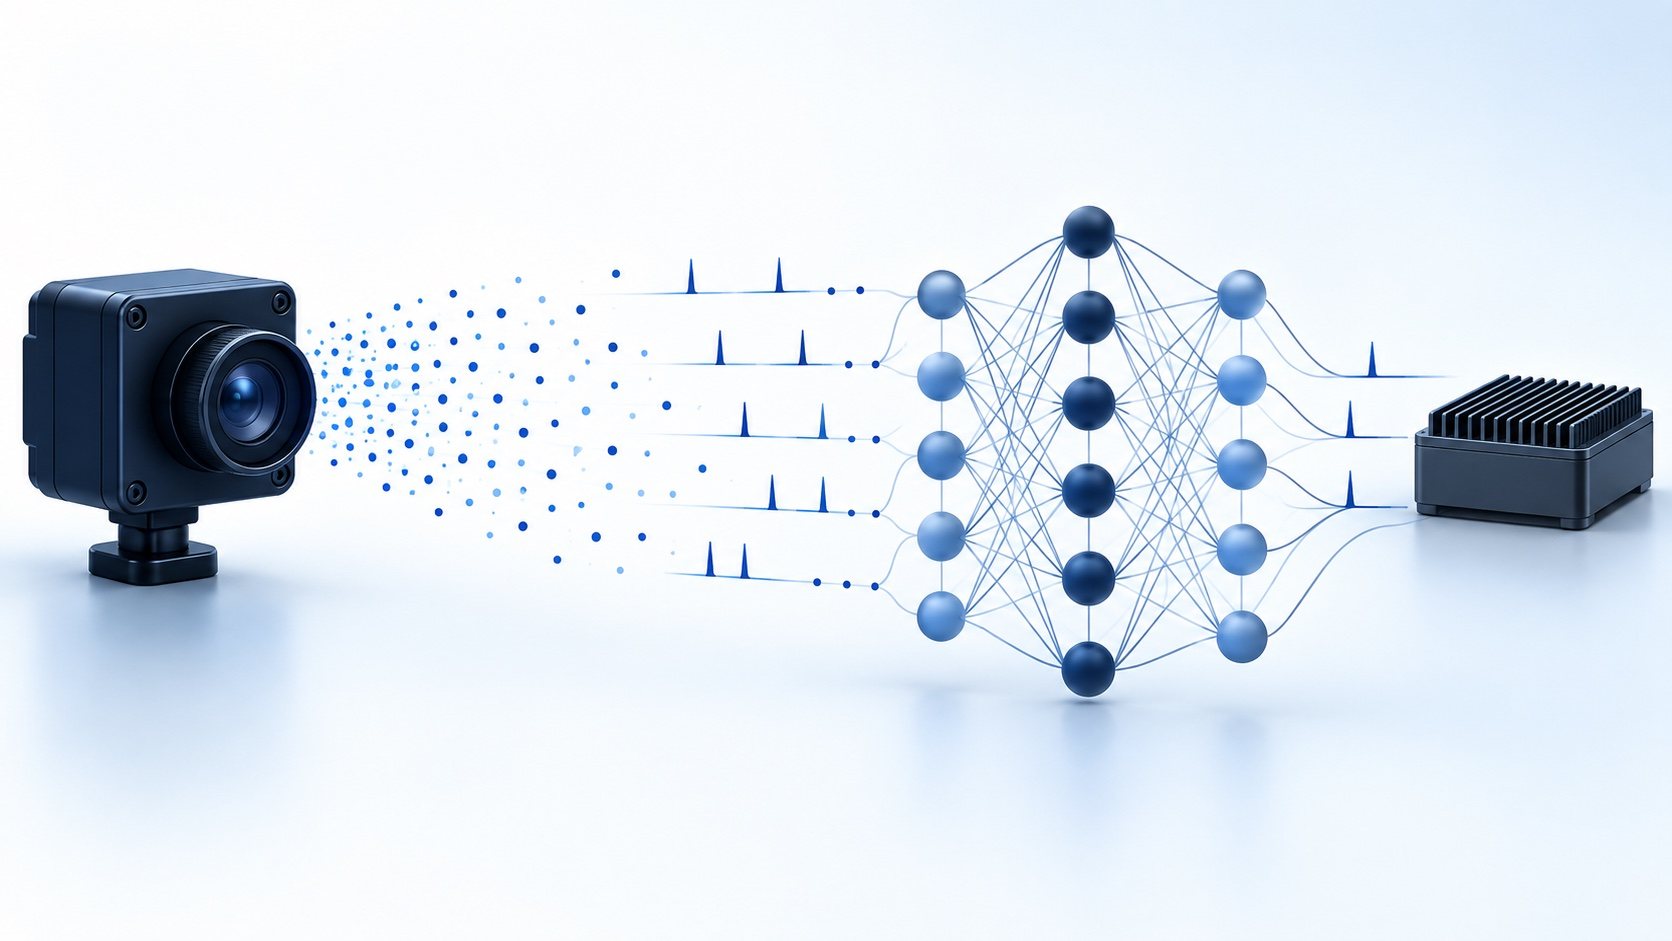
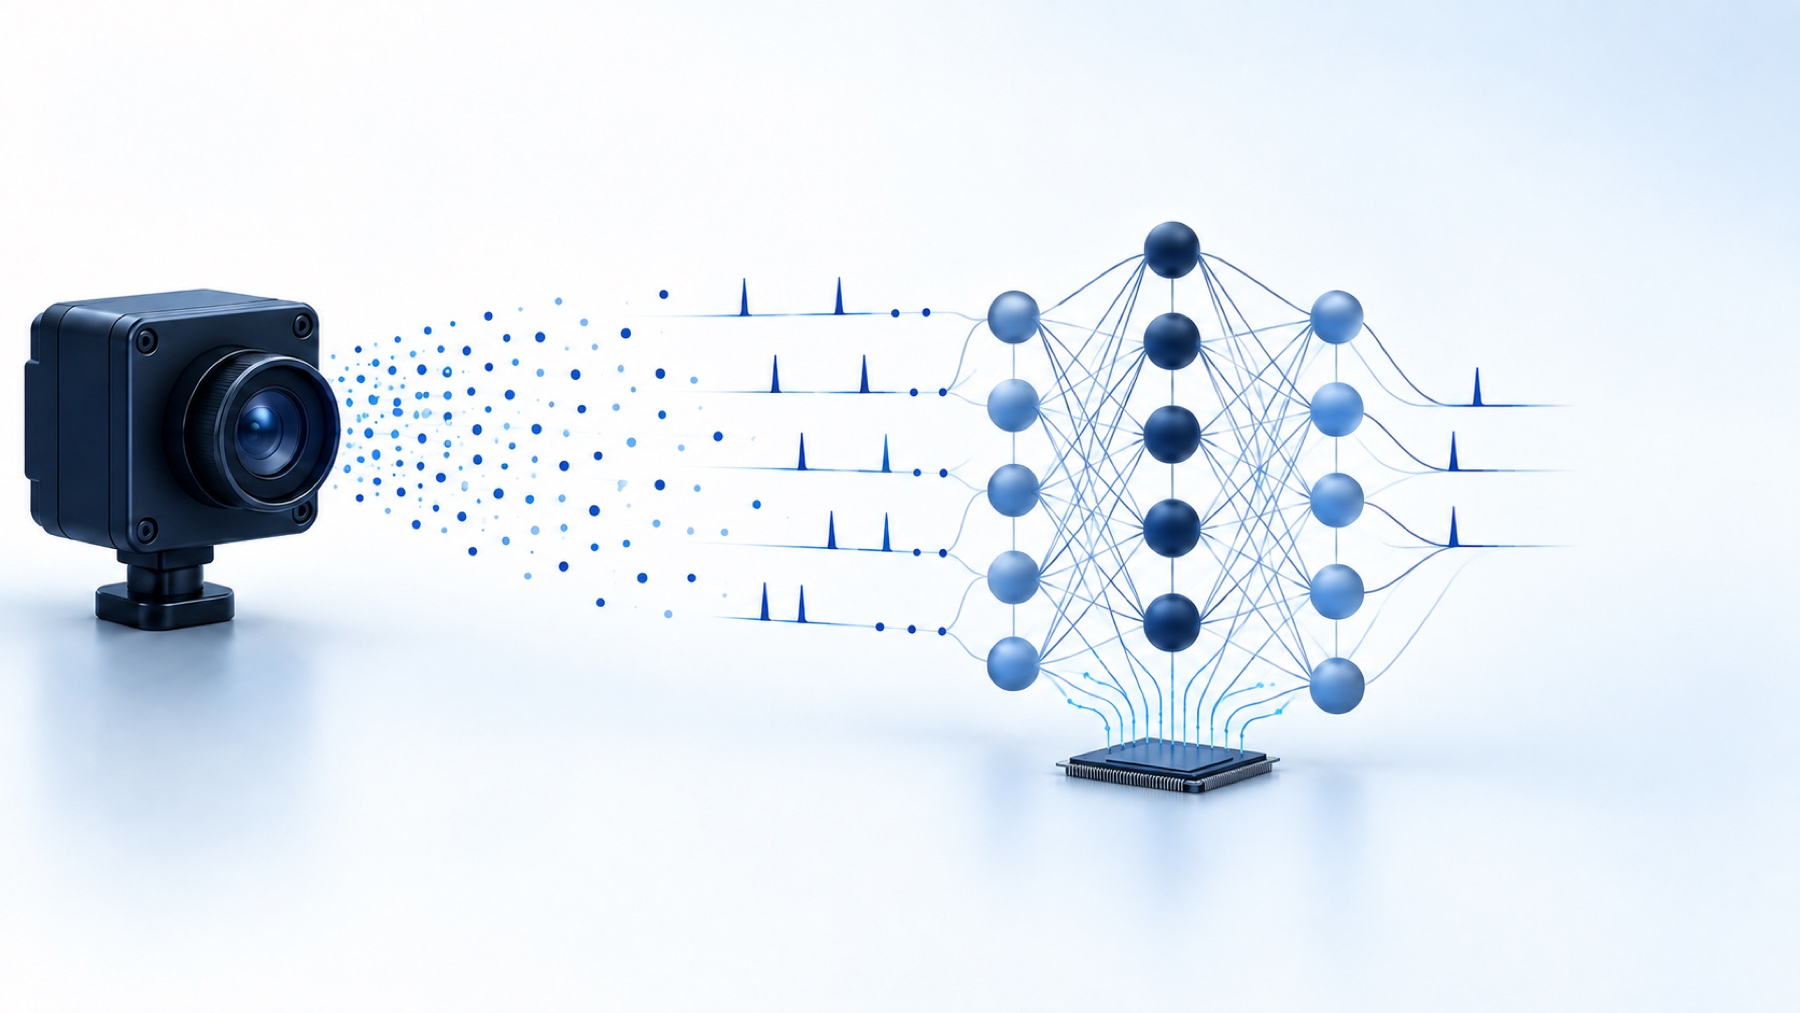
Add new photos and refine neuromorphic illustration

diff --git a/lib/site-data.ts b/lib/site-data.ts
@@ -105,6 +105,11 @@ export const alumni = [
 
 export const galleryItems = [
   {
+    image: '/images/gallery-12.jpg',
+    alt: 'Leiden skyline under sunset clouds',
+    caption: 'Leiden, Aug 2026',
+  },
+  {
     image: '/images/gallery-01.jpg',
     alt: 'Landscape in Iceland',
     caption: 'Iceland, 2024',
@@ -249,6 +254,8 @@ export const newsItems: NewsItem[] = [
     year: 2026,
     title: 'Invited talk on low-latency LLMs at the edge',
     text: 'Qinyu gave an invited talk titled “Low-latency LLMs at the Edge” at the IEEE CIS “Foundation Models Meet Robotics” summer school in Paderborn, Germany.',
+    image: '/images/news-robot-award-2026.jpg',
+    imageAlt: 'Blue 3D-printed robot sculpture presented at the summer school',
   },
   {
     date: '28 June 2026',
